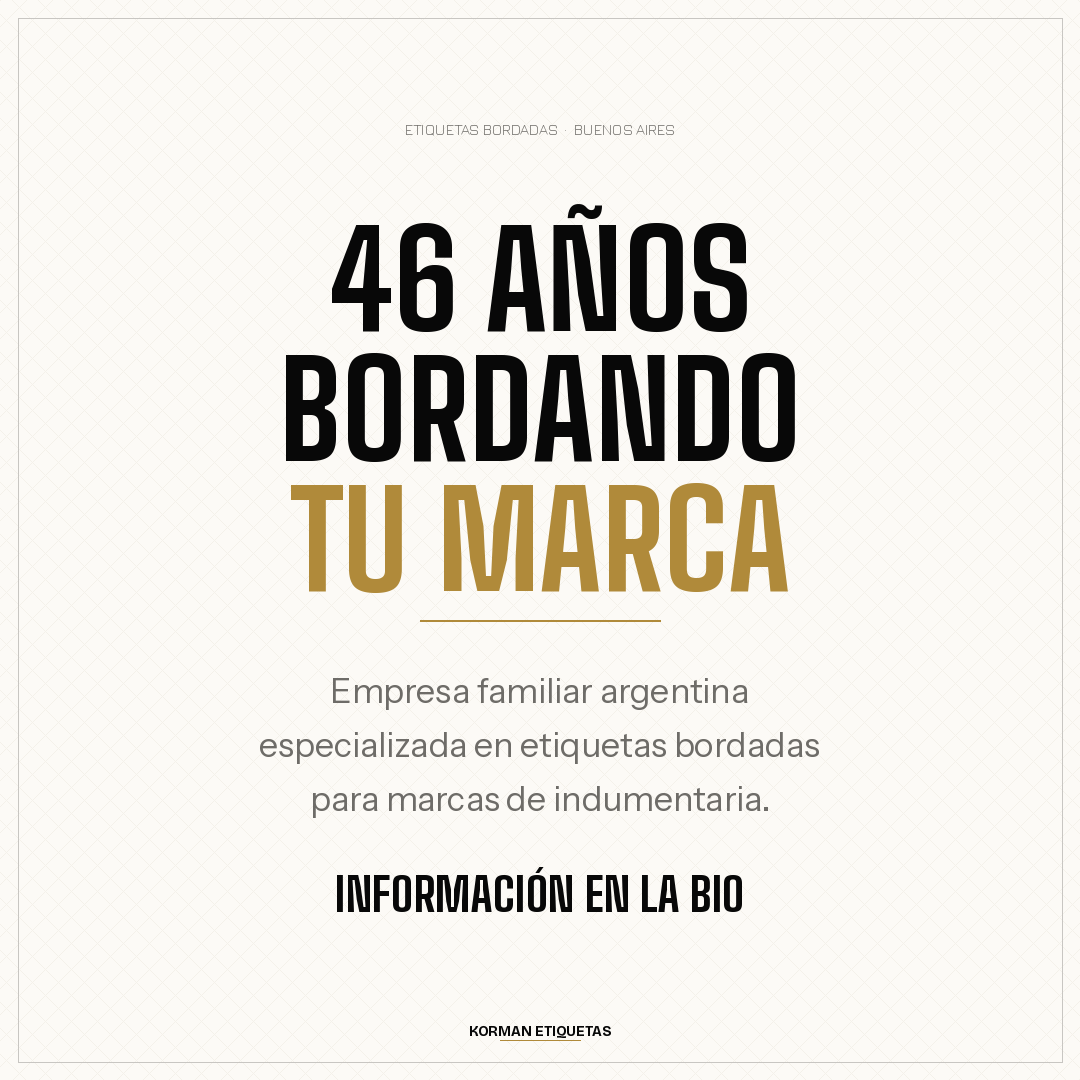
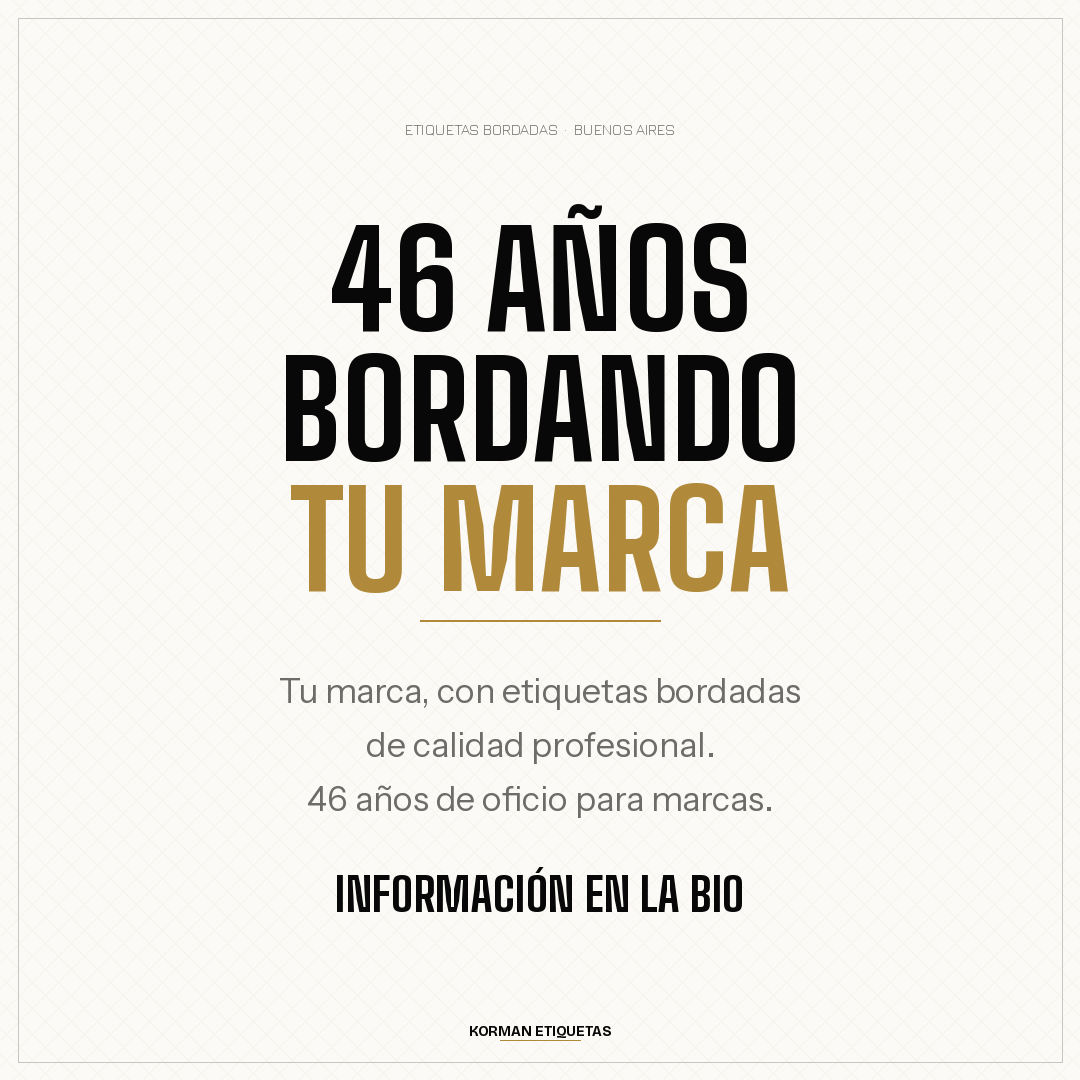
Actualizar post de presentacion: mensaje 'Tu marca, con etiquetas bordadas de calidad profesional' y rubro mas amplio
Claude-Session: https://claude.ai/code/session_017RDuaEkxS43SZ1xs4UNenw

Changed region(s): [[0.2444, 0.6111, 0.7639, 0.7028], [0.275, 0.7333, 0.7028, 0.7639]]

diff --git a/generate_post_presentacion.py b/generate_post_presentacion.py
@@ -69,9 +69,9 @@ d.line([(W//2-ll//2,ly),(W//2+ll//2,ly)],fill=GOLD,width=2)
 # Texto cuerpo
 f_b=fnt("InstrumentSans-Regular.ttf",34)
 lines=[
-    "Empresa familiar argentina",
-    "especializada en etiquetas bordadas",
-    "para marcas de indumentaria.",
+    "Tu marca, con etiquetas bordadas",
+    "de calidad profesional.",
+    "46 años de oficio para marcas.",
 ]
 y=670
 for line in lines:
